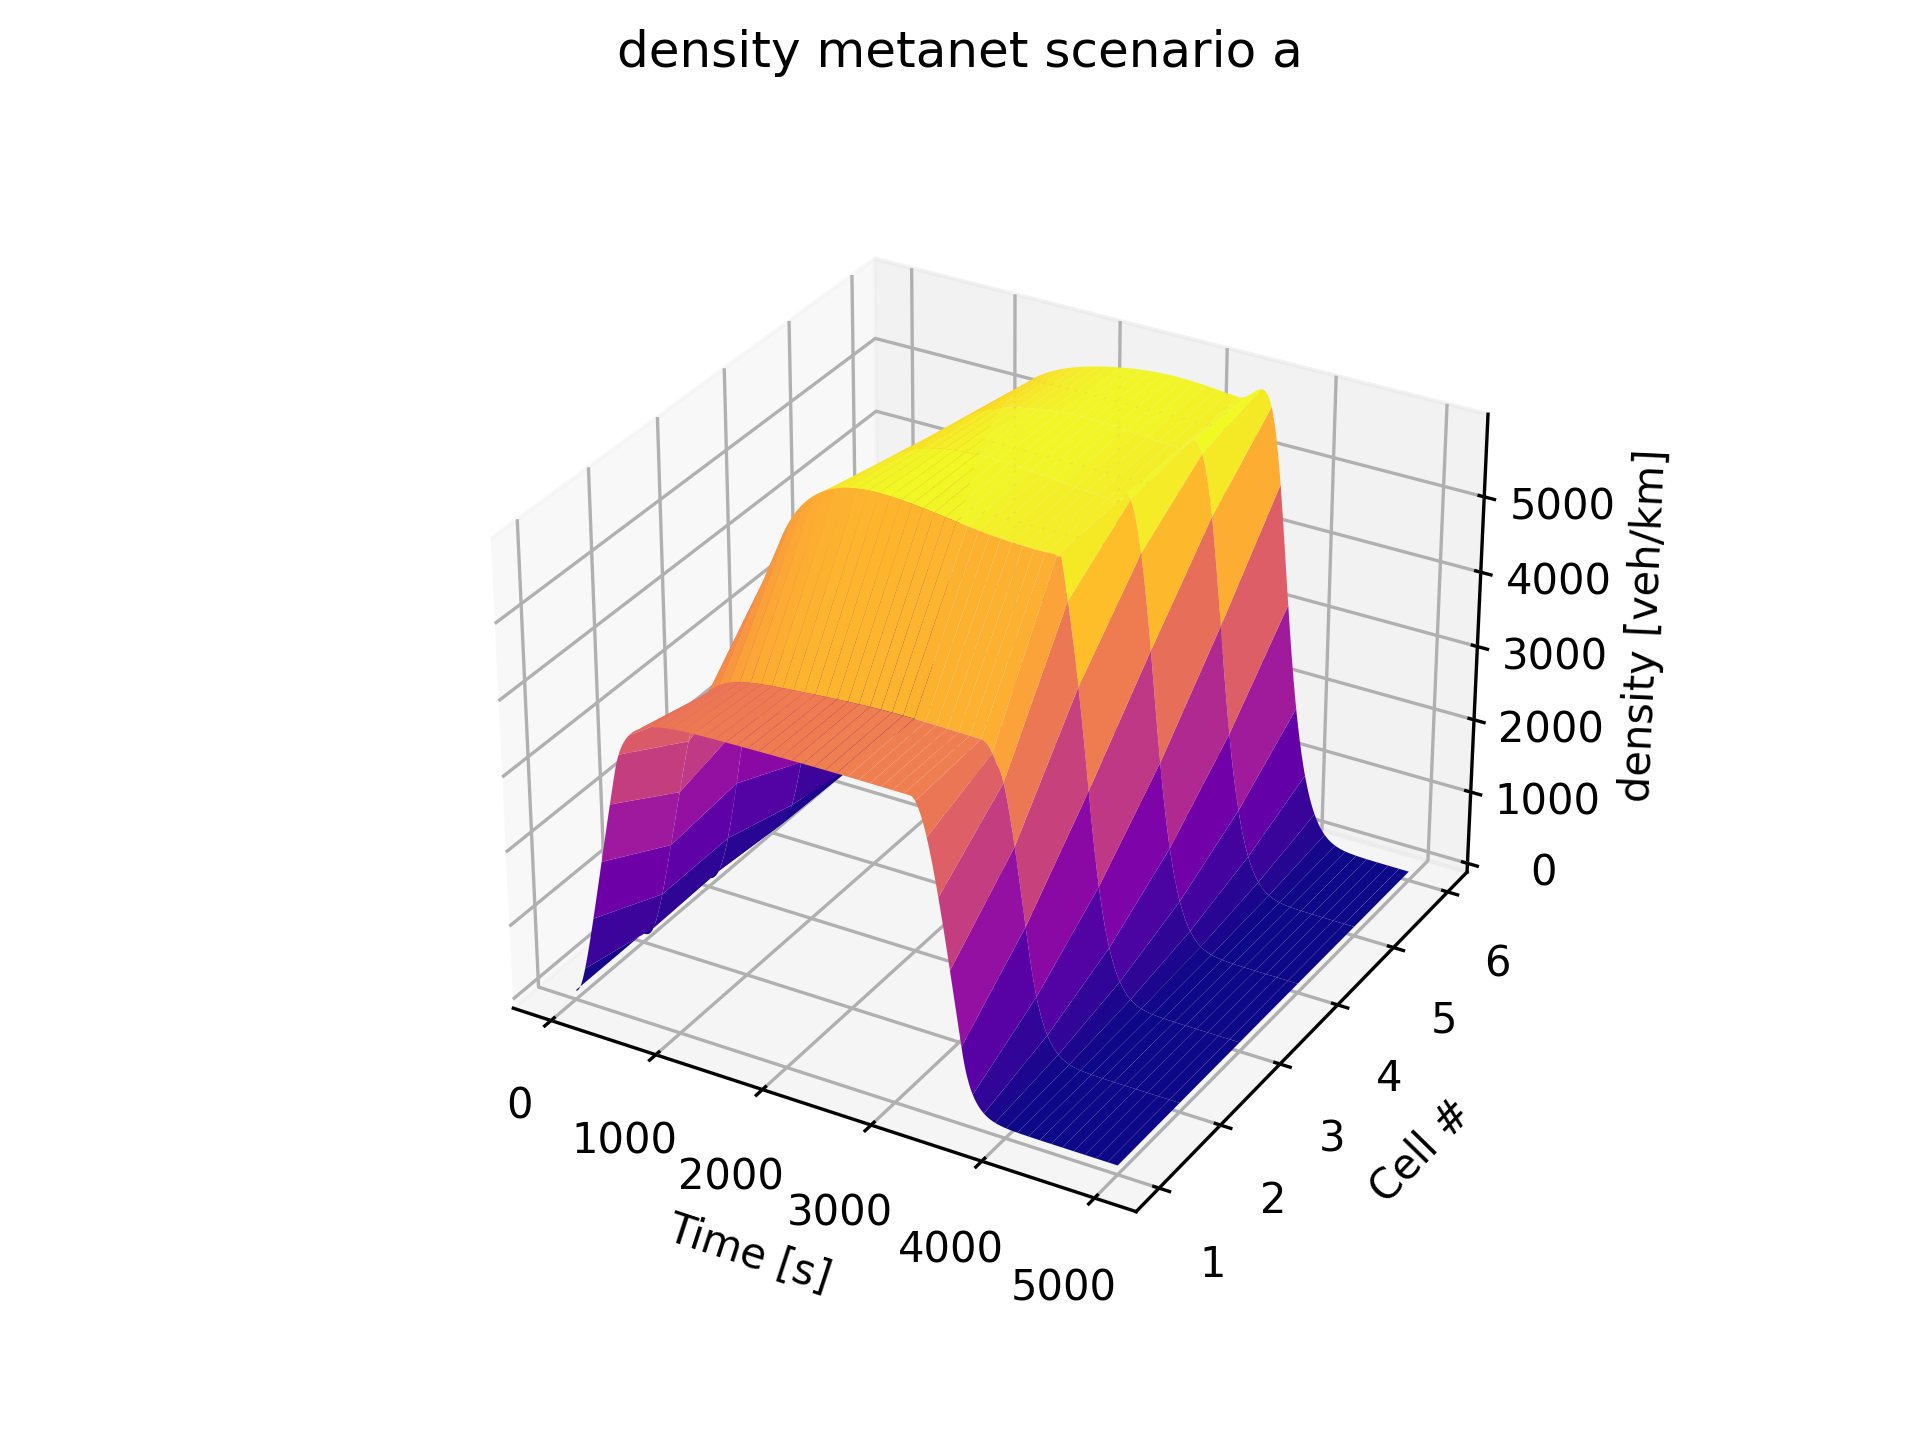
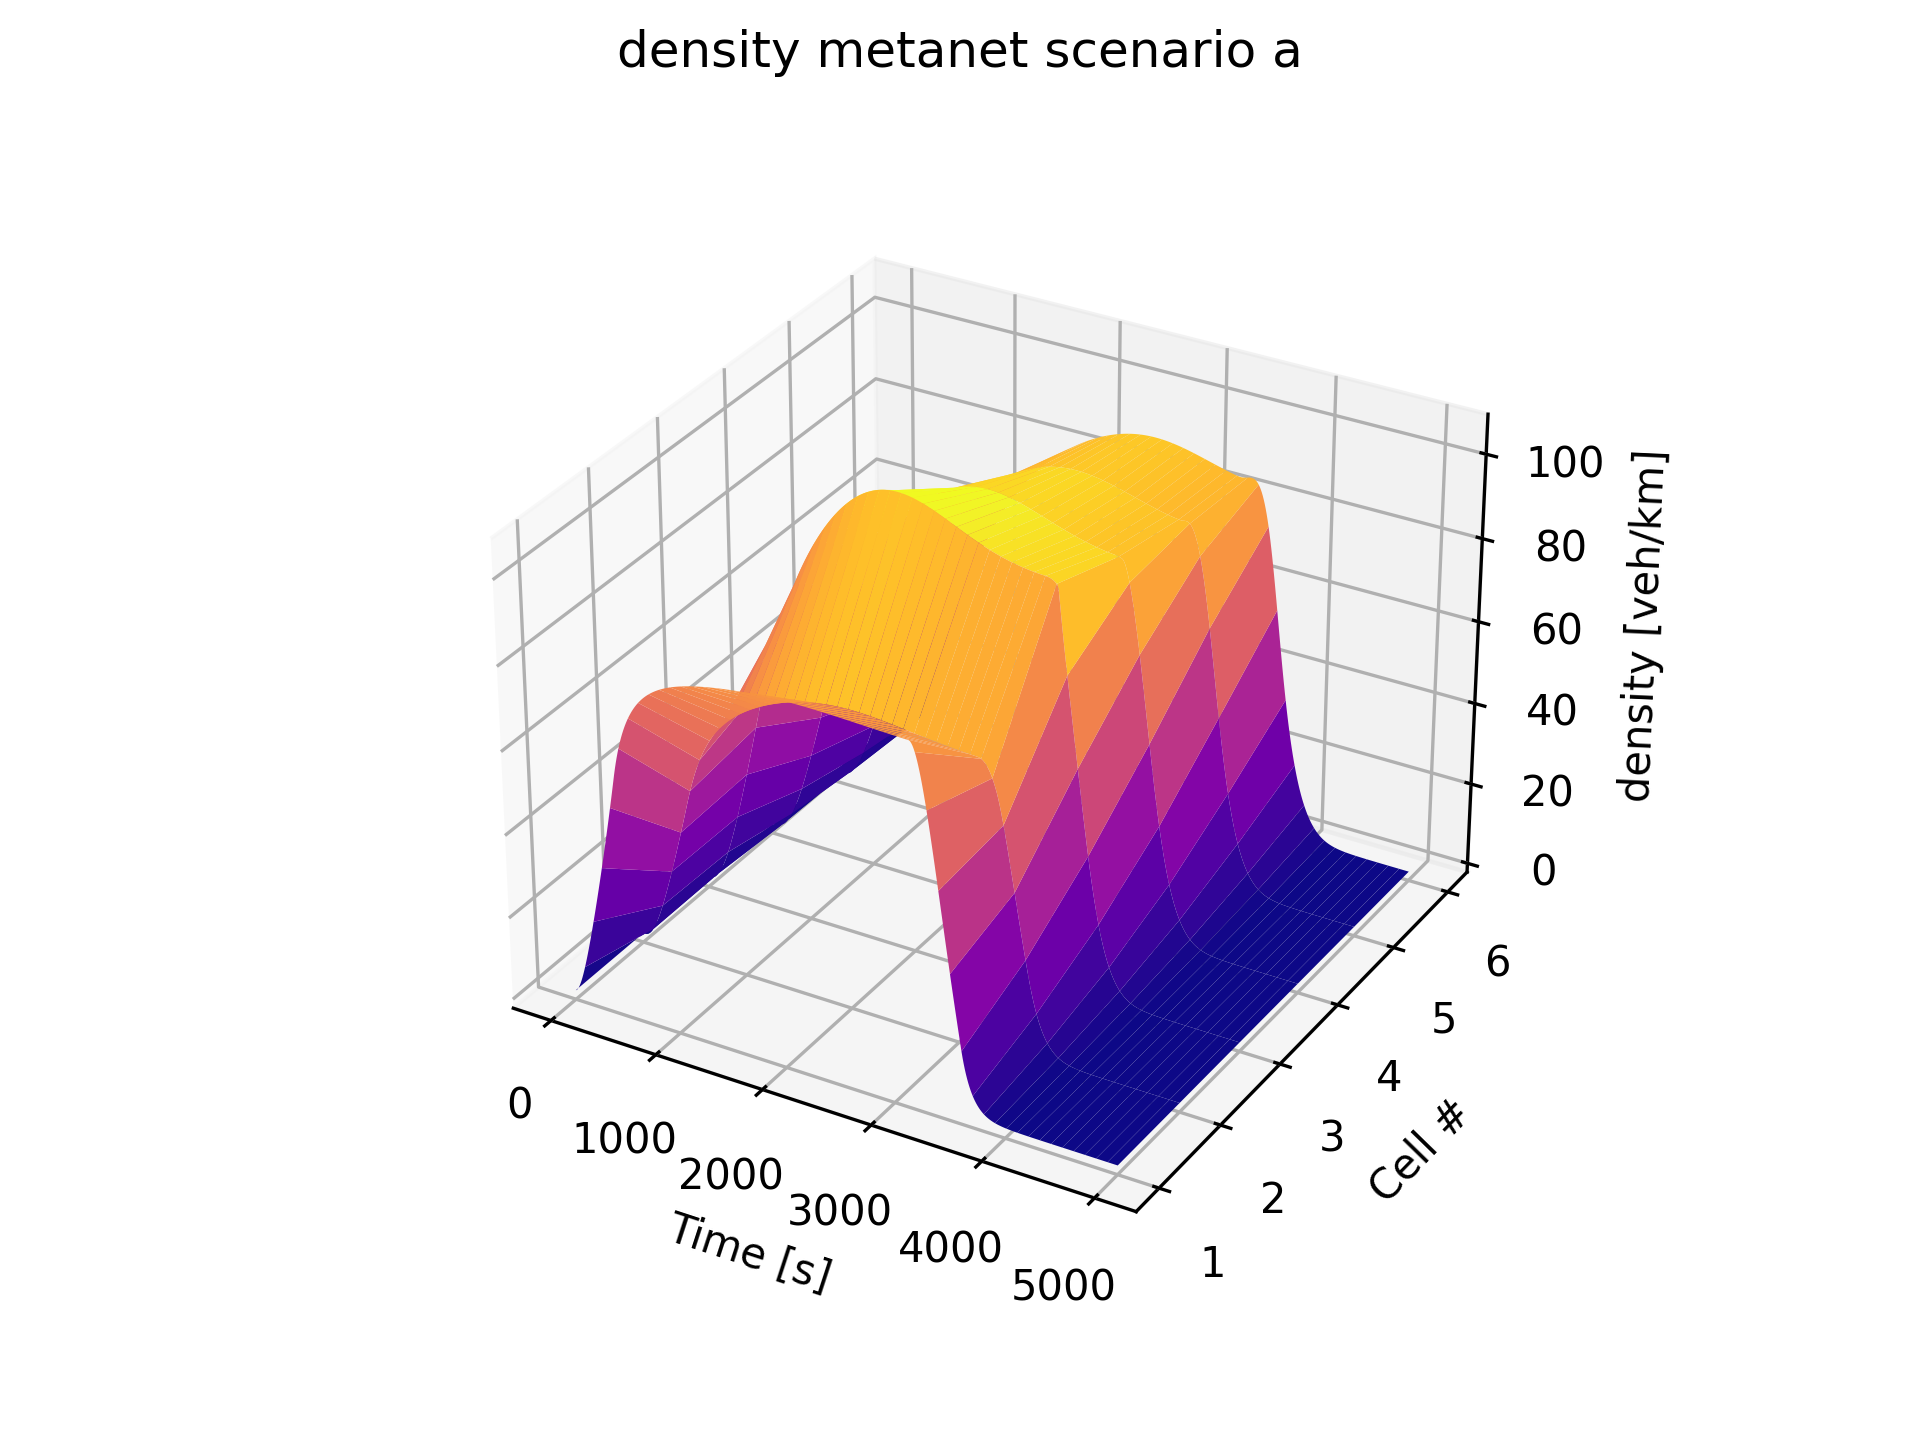
added user input check function for error checking

diff --git a/main.py b/main.py
@@ -3,7 +3,7 @@ from cell import Fundamentaldiagram
 from simulation import *
 from network import Network
 from alinea import Alinea
-
+from functions import *
 # parameters to change by User
 method = "all"  # method (ctm/metanet/all)
 nr_of_steps = 500   # Nummer of Steps of Simulation
@@ -16,7 +16,7 @@ show_plots = False      # (True/False)
 show_animation = False  # (True/False)
 show_values = True      # (True/False)
 save_plots = True       # (True/False)
-diagram_type = "2D"     # (2D/3D)
+diagram_type = "all"     # (2D/3D/all)
 dpi = 300
 
 # for metanet only
@@ -27,64 +27,66 @@ k = 0.173      # k Value for Metanet if not calculate [-]
 optimise_k = True  # set True to calculate optimal K-Value
 
 # -------------------------------------------------------------------------------------------------------------
+if user_input_check(method, nr_of_steps, delta_time, scenario, precision, show_plots, show_animation, show_values, save_plots, diagram_type, dpi, is_applied, k, optimise_k):
 
-if not is_applied:
-    k = 1
-    optimise_k = False
+    if not is_applied:
+        k = 1
+        optimise_k = False
 
-# set parameters for all methods
-if method.lower() == "all":
-    methods = ["ctm", "metanet"]
-else:
-    methods = [method.lower()]
-# set parameters for all scenarios
-if scenario.lower() == "all":
-    scenarios = ["a", "b", "c"]
-else:
-    scenarios = [scenario.lower()]
+    # set parameters for all methods
+    if method.lower() == "all":
+        methods = ["ctm", "metanet"]
+    else:
+        methods = [method.lower()]
+    # set parameters for all scenarios
+    if scenario.lower() == "all":
+        scenarios = ["a", "b", "c"]
+    else:
+        scenarios = [scenario.lower()]
 
 
-for method in methods:
-    print("-------------------------------------------")
-    print("Method ", method.upper())
-    for scenario in scenarios:
-        print("--------------------")
-        print("Scenario ", scenario)
-        # initialize Fundamentaldiagram
-        fd = Fundamentaldiagram()
+    for method in methods:
+        print("-------------------------------------------")
+        print("Method ", method.upper())
+        for scenario in scenarios:
+            print("--------------------")
+            print("Scenario ", scenario)
+            # initialize Fundamentaldiagram
+            fd = Fundamentaldiagram()
 
-        # initialize Network
-        net = Network(method)
-        net.set_simulation(nr_of_steps, delta_time)
-        # set Simulation Parameters from exercise
+            # initialize Network
+            net = Network(method)
+            net.set_simulation(nr_of_steps, delta_time)
+            # set Simulation Parameters from exercise
+            net.set_scenario(fd, scenario)
 
-        #net.set_scenario(fd, scenario)
-        net.set_scenario(fd, scenario)
+            # initialize alinea
+            alinea = Alinea(k, is_applied, optimise_k)
 
-        # initialize alinea
-        alinea = Alinea(k, is_applied, optimise_k)
+            if method == "metanet":
+                if optimise_k:
+                    alinea.optimize(net, precision)
 
-        if method == "metanet":
-            if optimise_k:
-                alinea.optimize(net, precision)
+                # set scenario Parameters from exercise
+                net.set_scenario(fd, scenario, alinea)
 
-            # set scenario Parameters from exercise
-            net.set_scenario(fd, scenario, alinea)
+            simulation = Simulation(net, nr_of_steps, delta_time, precision)
 
-        simulation = Simulation(net, nr_of_steps, delta_time, precision)
+            # cfl condition check
+            # net.check_cfl()
 
-        # cfl condition check
-        # net.check_cfl()
+            # simulation
+            simulation.run()
 
-        # simulation
-        simulation.run()
-
-        # show data
-        if diagram_type == "2D":
-            simulation.plot_2d(show_plots, save_plots, dpi)
-        if diagram_type == "3D":
-            simulation.plot_3d(show_plots, save_plots, dpi)
-        if show_animation:
-            simulation.animate()
-        if show_values:
-            simulation.print()
+            # show data
+            if diagram_type == "2D":
+                simulation.plot_2d(show_plots, save_plots, dpi)
+            if diagram_type == "3D":
+                simulation.plot_3d(show_plots, save_plots, dpi)
+            if diagram_type == "all":
+                simulation.plot_2d(show_plots, save_plots, dpi)
+                simulation.plot_3d(show_plots, save_plots, dpi)
+            if show_animation:
+                simulation.animate()
+            if show_values:
+                simulation.print()

diff --git a/functions.py b/functions.py
@@ -1,0 +1,41 @@
+def user_input_check(method, nr_of_steps, delta_time, scenario, precision, show_plots, show_animation, show_values, save_plots, diagram_type, dpi, is_applied, k, optimise_k):
+    user_input_is_valid = True
+    booleans = [[show_plots, "show_plots"], [show_animation, "show_animation"], [show_values, "show_values"], [save_plots, "save_plots"], [is_applied, "is_applied"], [optimise_k, "optimise_k"]]
+
+    if method not in ["ctm", "metanet", "all"]:
+        print("method is not (ctm/metanet/all)")
+        user_input_is_valid = False
+
+    if scenario not in ["a", "b", "c", "all"]:
+        print("scenario is not (a/b/c/all)")
+        user_input_is_valid = False
+
+    if diagram_type not in ["2D", "3D", "all"]:
+        print("diagram_type is not (2D/3D/all)")
+        user_input_is_valid = False
+
+    if type(nr_of_steps) != int:
+        print("nr_of_steps is not an Integer")
+        user_input_is_valid = False
+
+    if type(delta_time) != float:
+        print("delta_time is not an Float")
+        user_input_is_valid = False
+
+    if not (0.1 > precision > 0 or type(precision) is float):
+        print("not 0.1 > precision > 0 or is not float")
+        user_input_is_valid = False
+
+    if not (1 > k > 0) or not (type(k) is float):
+        print("not 1 > k > 0 or is not float")
+        user_input_is_valid = False
+
+    if not (1000 > dpi > 100) or not (type(dpi) is int):
+        print("not 1000 > dpi > 100 or is not int")
+        user_input_is_valid = False
+
+    for boolean in booleans:
+        if type(boolean[0]) != bool:
+            print(boolean[1] + " is not a Boolean")
+            user_input_is_valid = False
+    return user_input_is_valid

diff --git a/simulation.py b/simulation.py
@@ -83,7 +83,7 @@ class Simulation:
             fig1 = plt.figure()
             fig1.suptitle(diagram_type[0] + ' ' + self.method + ' scenario ' + self.scenario)
             ax1 = fig1.add_subplot(111, projection='3d')
-            ax1.plot_surface(X, Y, self.flow, cmap="plasma")
+            ax1.plot_surface(X, Y, getattr(self, diagram_type[0]), cmap="plasma")
             ax1.set_ylabel('Cell #')
             ax1.set_xlabel('Time [s]')
             ax1.set_zlabel(diagram_type[0] + ' ' + diagram_type[1])
